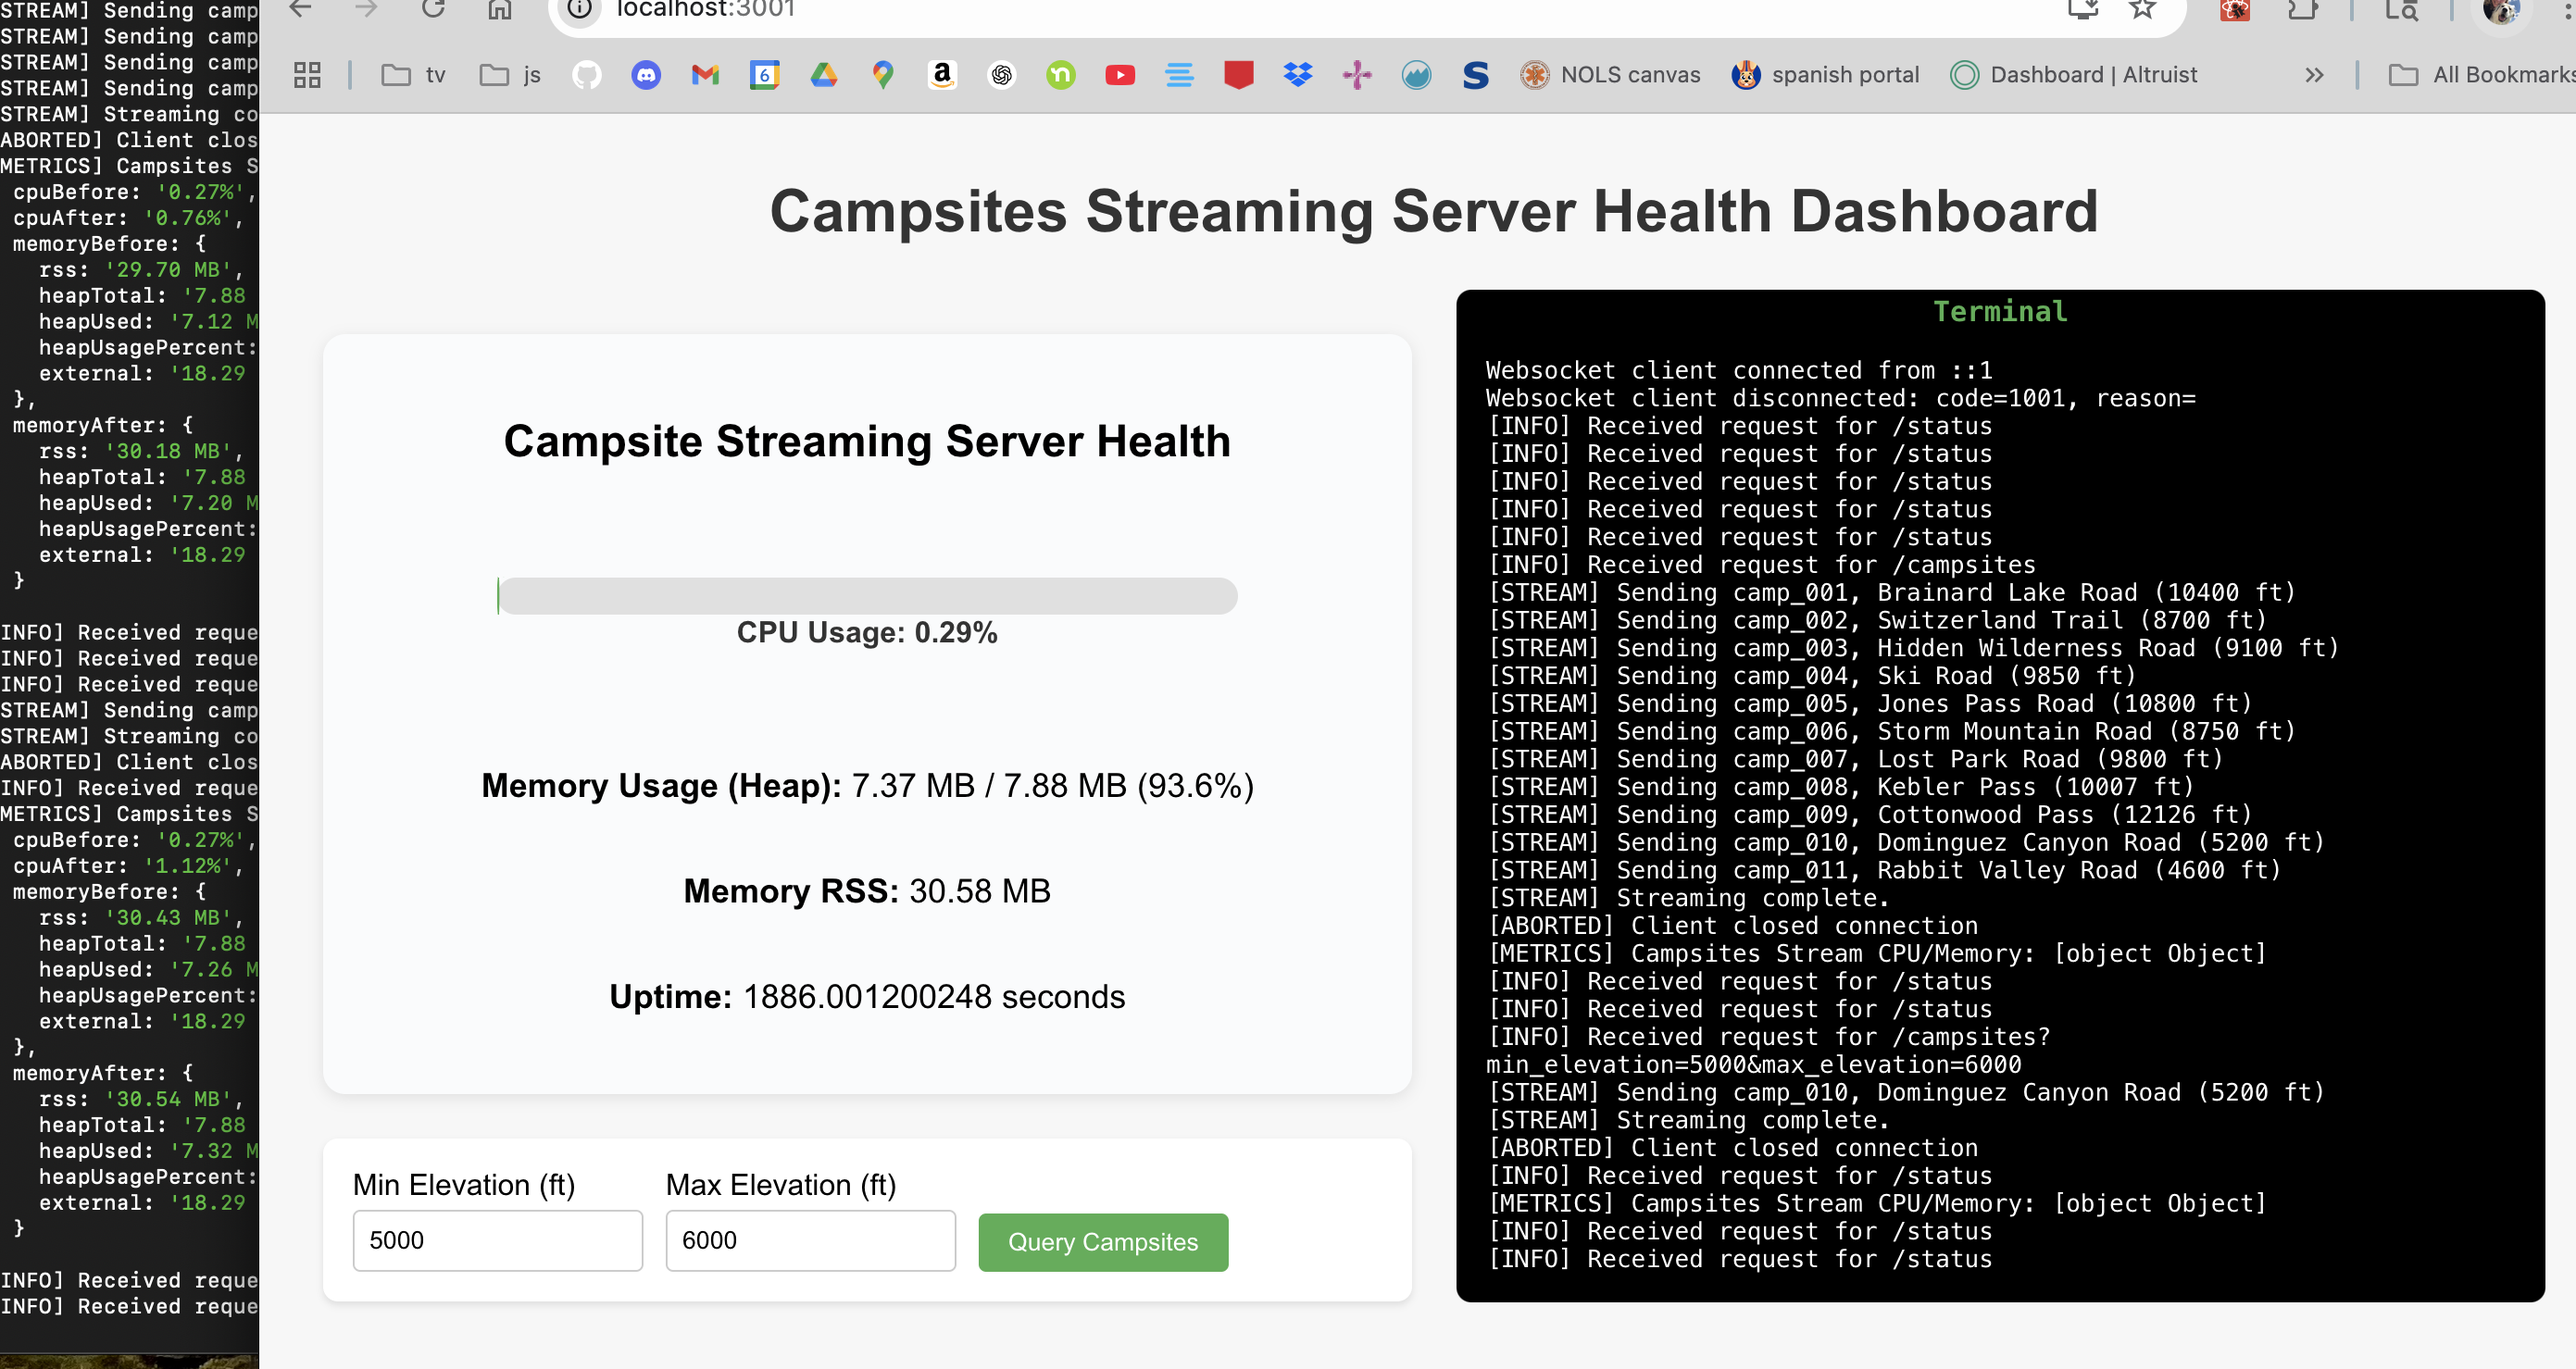
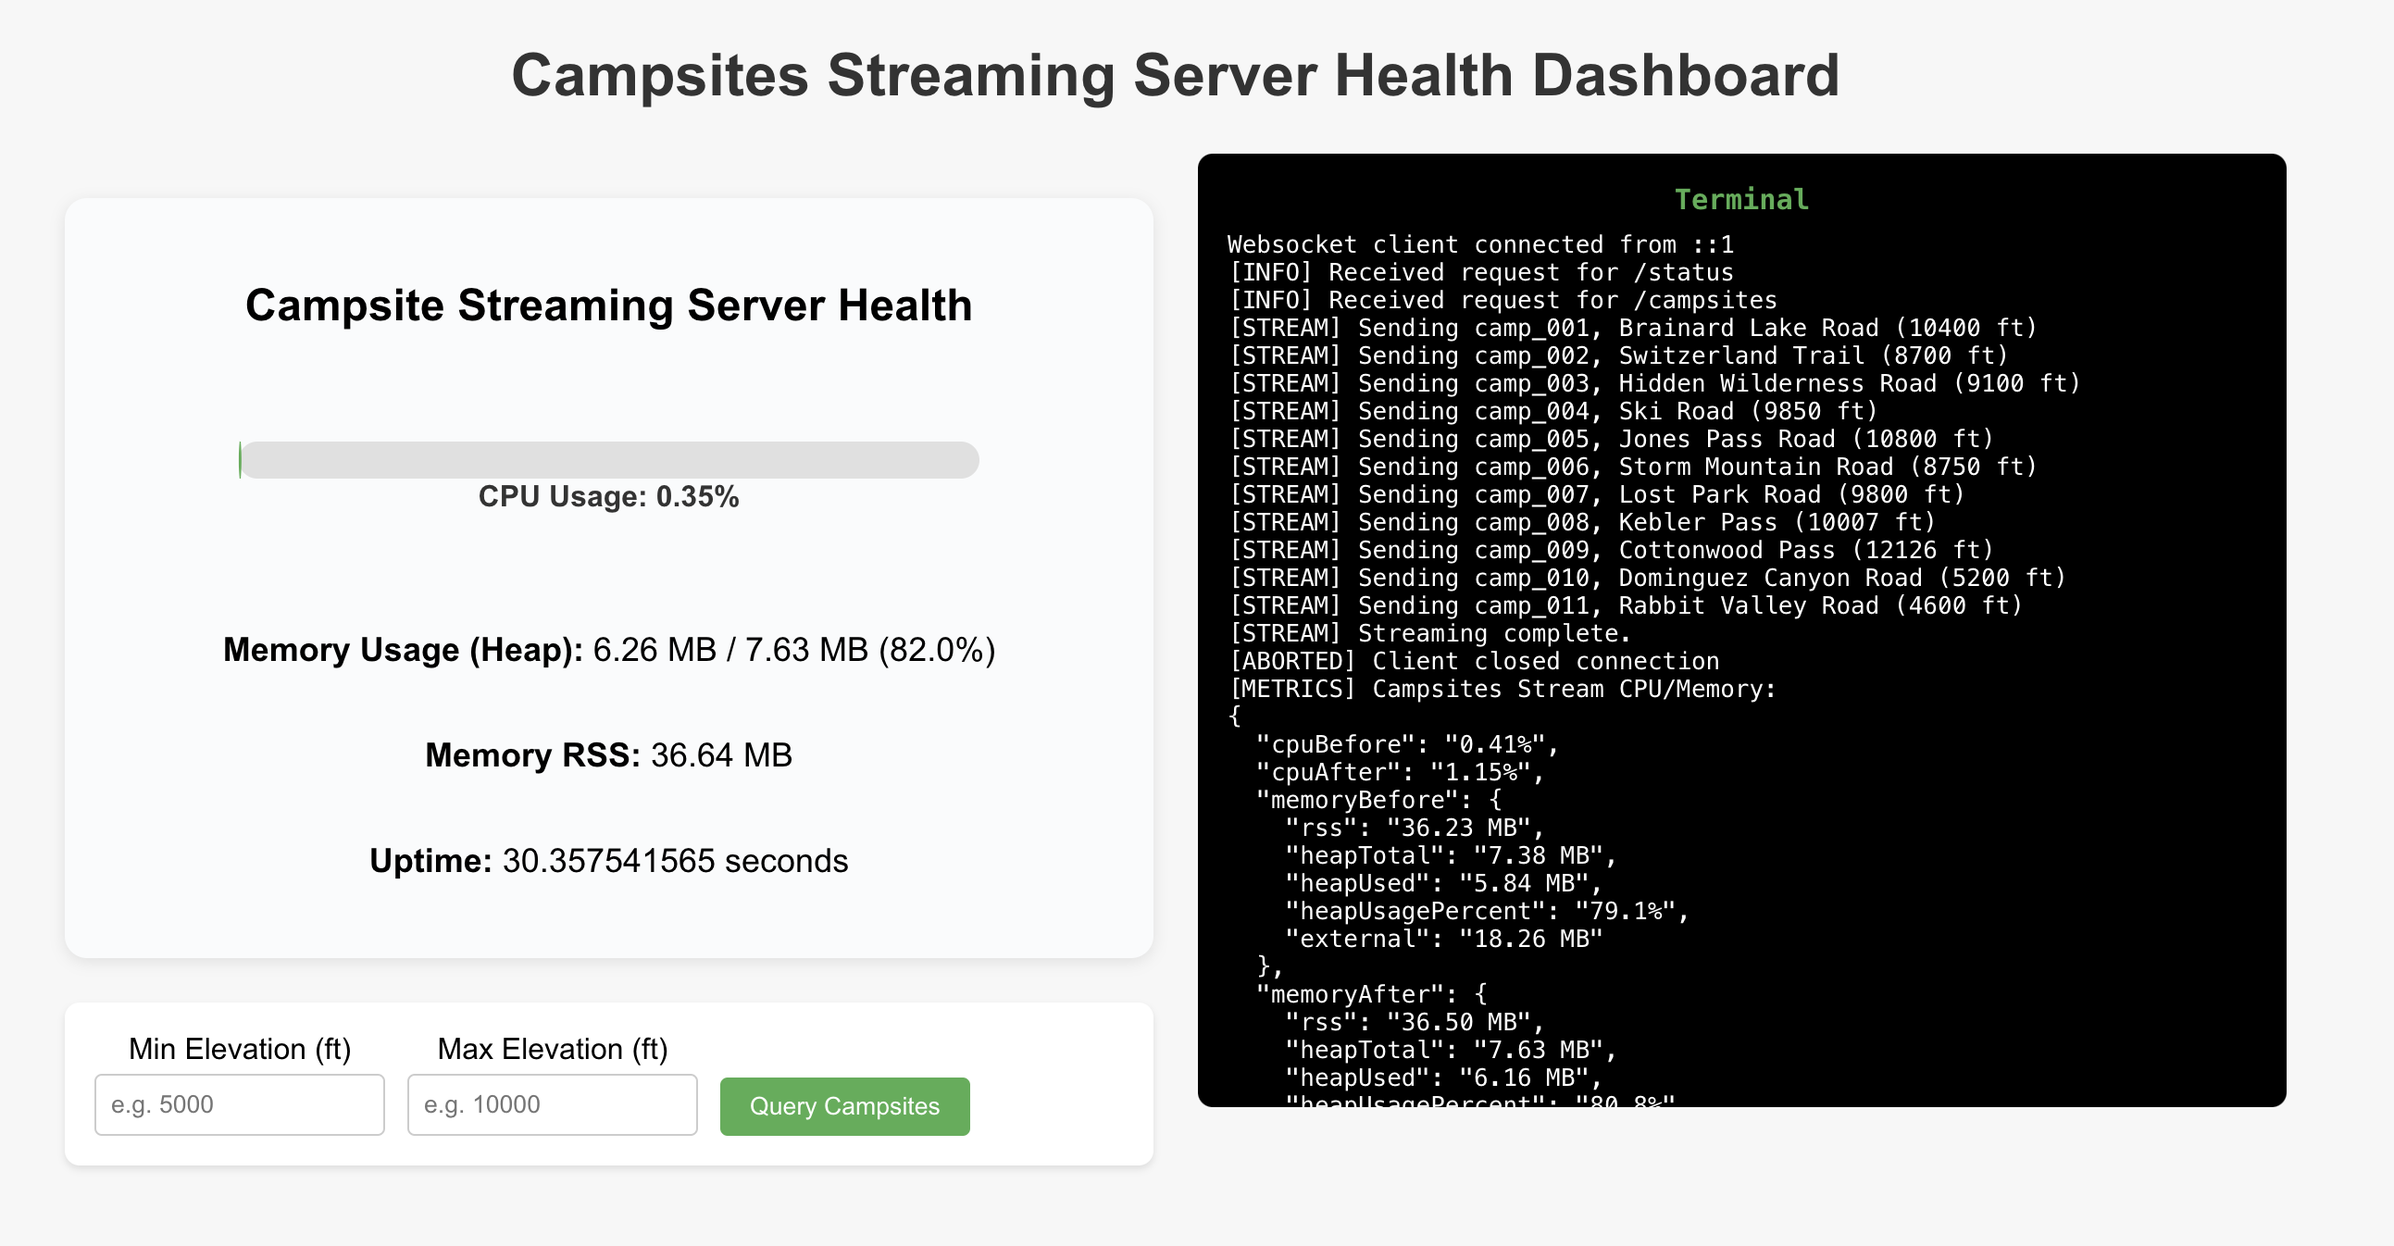
fix: json logs (#1)
* add css

* refactor parsing logic

* fix typo

* clean up css

* rm comments

* update image

* error handling

* rm unused dependencies

diff --git a/src/components/QueryCampsites.js b/src/components/QueryCampsites.js
@@ -1,9 +1,9 @@
-import React, { useState, useEffect, useRef } from "react";
+import React, { useState } from "react";
+import "../App.css";
 
 const QueryCampsites = () => {
   const [minElevation, setMinElevation] = useState("");
   const [maxElevation, setMaxElevation] = useState("");
-  const [results, setResults] = useState(null);
   const [loading, setLoading] = useState(false);
   const [error, setError] = useState(null);
 
@@ -12,95 +12,70 @@ const QueryCampsites = () => {
     setLoading(true);
     setError(null);
 
-    // Build query string with updated parameter names
     const params = new URLSearchParams();
-
     if (minElevation && !isNaN(minElevation))
       params.append("min_elevation", minElevation);
     if (maxElevation && !isNaN(maxElevation))
       params.append("max_elevation", maxElevation);
 
-    // Only add query parameters if at least one is provided
     const url = `http://localhost:3000/campsites?${params.toString()}`;
 
     try {
       const resp = await fetch(url);
       if (!resp.ok) throw new Error(`HTTP ${resp.status}`);
-      const data = await resp.json();
-      setResults(data);
     } catch (err) {
       setError(err.message);
-      setResults(null);
     } finally {
       setLoading(false);
     }
   };
 
   return (
-    <form
-      onSubmit={handleSubmit}
-      style={{
-        display: "flex",
-        gap: 12,
-        marginBottom: 24,
-        background: "#fff",
-        padding: 16,
-        borderRadius: 8,
-        boxShadow: "0 2px 4px rgba(0,0,0,0.1)",
-      }}
-    >
-      <div style={{ display: "flex", flexDirection: "column" }}>
-        <label htmlFor="minElevation" style={{ marginBottom: 4 }}>
-          Min Elevation (ft)
-        </label>
-        <input
-          id="minElevation"
-          type="number"
-          value={minElevation}
-          onChange={(e) => setMinElevation(e.target.value)}
-          placeholder="e.g. 5000"
-          style={{
-            padding: 8,
-            borderRadius: 4,
-            border: "1px solid #ccc",
-          }}
-        />
-      </div>
+    <>
+      <form onSubmit={handleSubmit} className="query-campsites-form">
+        <div className="query-campsites-field">
+          <label htmlFor="minElevation" className="query-campsites-label">
+            Min Elevation (ft)
+          </label>
+          <input
+            id="minElevation"
+            type="number"
+            value={minElevation}
+            onChange={(e) => setMinElevation(e.target.value)}
+            placeholder="e.g. 5000"
+            className="query-campsites-input"
+          />
+        </div>
 
-      <div style={{ display: "flex", flexDirection: "column" }}>
-        <label htmlFor="maxElevation" style={{ marginBottom: 4 }}>
-          Max Elevation (ft)
-        </label>
-        <input
-          id="maxElevation"
-          type="number"
-          value={maxElevation}
-          onChange={(e) => setMaxElevation(e.target.value)}
-          placeholder="e.g. 10000"
-          style={{
-            padding: 8,
-            borderRadius: 4,
-            border: "1px solid #ccc",
-          }}
-        />
-      </div>
+        <div className="query-campsites-field">
+          <label htmlFor="maxElevation" className="query-campsites-label">
+            Max Elevation (ft)
+          </label>
+          <input
+            id="maxElevation"
+            type="number"
+            value={maxElevation}
+            onChange={(e) => setMaxElevation(e.target.value)}
+            placeholder="e.g. 10000"
+            className="query-campsites-input"
+          />
+        </div>
 
-      <button
-        type="submit"
-        style={{
-          alignSelf: "flex-end",
-          padding: "8px 16px",
-          background: "#4caf50",
-          color: "white",
-          border: "none",
-          borderRadius: 4,
-          cursor: "pointer",
-        }}
-        disabled={loading}
-      >
-        {loading ? "Loading..." : "Query Campsites"}
-      </button>
-    </form>
+        <button
+          type="submit"
+          className="query-campsites-button"
+          disabled={loading}
+        >
+          {loading ? "Loading..." : "Query Campsites"}
+        </button>
+      </form>
+
+      {error && (
+        <div className="query-campsites-error">
+          {error}
+        </div>
+      )}
+    </>
   );
 };
 

diff --git a/src/components/ConsoleTerminal.js b/src/components/ConsoleTerminal.js
@@ -1,5 +1,5 @@
 import React, { useEffect, useState, useRef } from "react";
-import "../App.css"; 
+import "../App.css";
 
 const ConsoleTerminal = () => {
   const [logs, setLogs] = useState([]);
@@ -41,19 +41,67 @@ const ConsoleTerminal = () => {
     }
   }, [logs]);
 
+  const parseLog = (log, index) => {
+    // Try to parse as JSON first
+    try {
+      const parsed = JSON.parse(log);
+      if (typeof parsed === "object" && parsed !== null) {
+        return (
+          <pre className="console-terminal-log" key={index}>
+            {JSON.stringify(parsed, null, 2)}
+          </pre>
+        );
+      }
+      return (
+        <p className="console-terminal-log" key={index}>
+          {String(parsed)}
+        </p>
+      );
+    } catch {
+      // Try to extract JSON object from within the log string
+      const jsonMatch = log.match(/({.*}|\[.*\])$/);
+      if (jsonMatch) {
+        try {
+          const parsed = JSON.parse(jsonMatch[0]);
+          return (
+            <span key={index}>
+              <span className="console-terminal-log">
+                {log.replace(jsonMatch[0], "")}
+              </span>
+              <pre className="console-terminal-log">
+                {JSON.stringify(parsed, null, 2)}
+              </pre>
+            </span>
+          );
+        } catch {
+          // If parsing fails, fall through to plain text
+        }
+      }
+      // If log contains [object Object], show a warning
+      if (log.includes("[object Object]")) {
+        return (
+          <p className="console-terminal-log" key={index}>
+            {log.replace(
+              "[object Object]",
+              "(object not serializable, check server log formatting)"
+            )}
+          </p>
+        );
+      }
+      // Otherwise, print as plain text
+      return (
+        <p className="console-terminal-log" key={index}>
+          {log}
+        </p>
+      );
+    }
+  };
+
   return (
     <div ref={terminalRef} className="console-terminal">
       <h3 className="console-terminal-title">Terminal</h3>
-      {error && (
-        <div className="console-terminal-error">
-          {error}
-        </div>
-      )}
-      {logs.map((log, i) => (
-        <p key={i} className="console-terminal-log">
-          {log}
-        </p>
-      ))}
+      {error && <div className="console-terminal-error">{error}</div>}
+      {logs.map((log, index) => parseLog(log, index))}
     </div>
   );
 };

diff --git a/src/App.css b/src/App.css
@@ -125,4 +125,41 @@
 
 .console-terminal-log {
   margin: 0;
+  text-align: left !important;
+  white-space: pre-wrap;
+}
+
+.query-campsites-form {
+  display: flex;
+  gap: 12px;
+  margin-bottom: 24px;
+  background: #fff;
+  padding: 16px;
+  border-radius: 8px;
+  box-shadow: 0 2px 4px rgba(0, 0, 0, 0.1);
+}
+
+.query-campsites-field {
+  display: flex;
+  flex-direction: column;
+}
+
+.query-campsites-label {
+  margin-bottom: 4px;
+}
+
+.query-campsites-input {
+  padding: 8px;
+  border-radius: 4px;
+  border: 1px solid #ccc;
+}
+
+.query-campsites-button {
+  align-self: flex-end;
+  padding: 8px 16px;
+  background: #4caf50;
+  color: white;
+  border: none;
+  border-radius: 4px;
+  cursor: pointer;
 }

diff --git a/src/components/ServerHealth.js b/src/components/ServerHealth.js
@@ -42,9 +42,8 @@ const ServerHealth = () => {
     const svg = d3.select("#cpuChart").attr("width", 500).attr("height", 100);
     const scale = d3.scaleLinear().domain([0, 100]).range([0, 400]);
 
-    svg.selectAll("*").remove(); // Clear previous chart
+    svg.selectAll("*").remove(); 
 
-    // Background bar (neutral gray)
     svg
       .append("rect")
       .attr("x", 50)

diff --git a/src/App.js b/src/App.js
@@ -1,6 +1,3 @@
-// App.js
-
-import React from "react";
 import QueryCampsites from "./components/QueryCampsites";
 import ServerHealth from "./components/ServerHealth";
 import ConsoleTerminal from "./components/ConsoleTerminal";

diff --git a/README.md b/README.md
@@ -102,7 +102,7 @@ Clone both the server and ui in separate terminal tabs, install dependencies and
 
 ```bash
 git clone https://github.com/baileydunning/campsite-streaming-server.git
-cd server-health-monitor
+cd campsite-streaming-server
 npm install
 npm start
 ```
